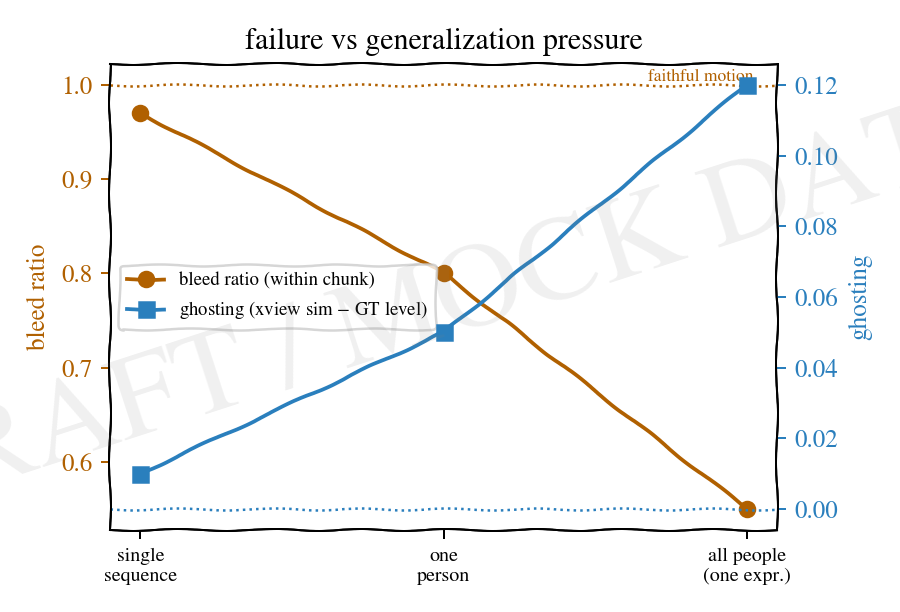
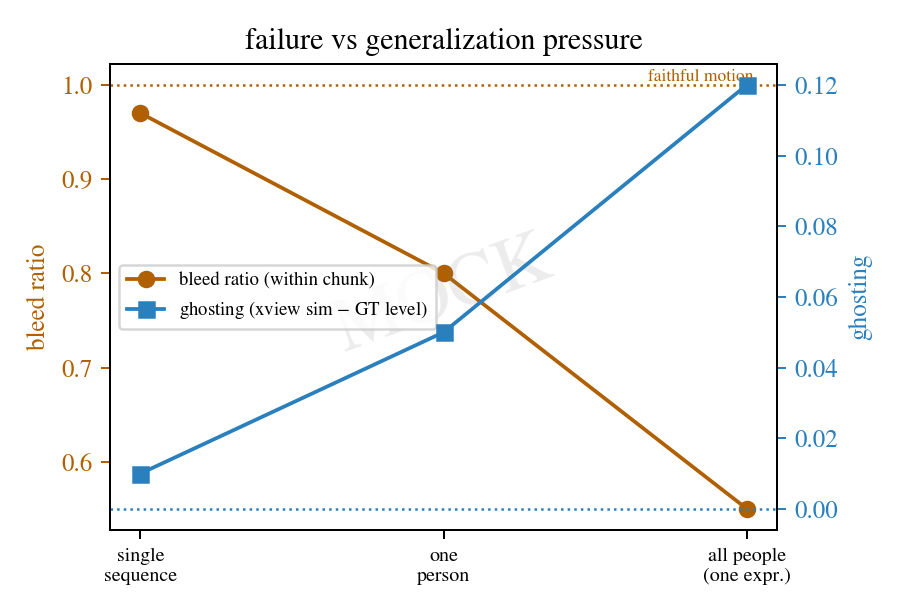
figures: drop sketch style and DRAFT watermark, redesign fusion panel with per-variant pipelines

diff --git a/paper/figures/make_mock_figures.py b/paper/figures/make_mock_figures.py
@@ -1,7 +1,7 @@
 """
 Mock versions of the paper figures, for layout discussions only.
 
-Everything with data in it uses made-up numbers (watermarked DRAFT / MOCK).
+Everything with data in it uses made-up numbers (watermarked MOCK).
 The real figures are generated from the rerun results (collect_results.py CSV
 + the eval clip dumps) once the sweep is done.
 
@@ -23,12 +23,10 @@ from matplotlib.patches import FancyArrowPatch, FancyBboxPatch, Polygon
 OUT = os.path.dirname(os.path.abspath(__file__))
 
 # CVPR template uses Times; STIXGeneral is the closest Times-like font that
-# ships with matplotlib. The sketch param gives everything a hand-drawn wobble
-# so nobody mistakes these for final figures.
+# ships with matplotlib.
 matplotlib.rcParams.update({
     "font.family": "STIXGeneral",
     "mathtext.fontset": "stix",
-    "path.sketch": (1, 100, 2),
 })
 
 # color code used in all schematics
@@ -44,11 +42,6 @@ def load_view(name):
     if os.path.exists(path):
         return plt.imread(path)
     return np.full((64, 64, 3), 0.82)  # gray placeholder if assets are missing
-
-
-def watermark(fig, text="DRAFT"):
-    fig.text(0.5, 0.5, text, fontsize=48, color="gray", alpha=0.12,
-             ha="center", va="center", rotation=18, zorder=100)
 
 
 def thumb(ax, img, x, y, s, label=None, fontsize=7.5, alpha=1.0):
@@ -114,7 +107,6 @@ def fig_broad_overview():
             ha="center", va="top", fontsize=8)
     arrow(ax, 7.55, 1.5, 8.1, 1.5)
 
-    watermark(fig)
     fig.tight_layout()
     fig.savefig(os.path.join(OUT, "mock_broad_overview.png"), dpi=180)
     plt.close(fig)
@@ -181,42 +173,69 @@ def fig_overview():
         box(ax, 1.7 + i * 2.1, 3.45, 0.25, 0.22, c, "")
         ax.text(2.02 + i * 2.1, 3.56, t, va="center", fontsize=7.5)
 
-    watermark(fig)
     fig.tight_layout()
     fig.savefig(os.path.join(OUT, "mock_overview.png"), dpi=180)
     plt.close(fig)
 
 
 # ---------------------------------------------------------------- fusion mechanisms
-def fig_fusion():
-    """The four fusion variants of the ablation, one mini-panel each."""
-    fig, axes = plt.subplots(1, 4, figsize=(11, 2.6))
-    titles = [
-        "(a) cross-view attention\n+ tree merge",
-        "(b) joint self-attention\n+ concat/ResBlocks",
-        "(c) channel-concat\nConv3d",
-        "(d) factorized (2+1+1)D\nconvolution",
-    ]
-    inner = [
-        "MHA over\n$V \\times N$ tokens",
-        "self-attn over\nall view tokens",
-        "1x1x1 Conv3d\n+ 2 ResBlocks",
-        "2D + temporal\n+ view conv",
-    ]
-    for ax, title, mech in zip(axes, titles, inner):
-        ax.set_xlim(0, 3)
-        ax.set_ylim(0, 3)
-        ax.axis("off")
-        box(ax, 0.15, 1.9, 0.8, 0.6, "white", "$f_1$", fontsize=8)
-        box(ax, 0.15, 0.5, 0.8, 0.6, "white", "$f_2$", fontsize=8)
-        box(ax, 1.15, 1.1, 1.1, 0.8, C_NEW, mech, fontsize=7)
-        arrow(ax, 0.97, 2.2, 1.25, 1.85)
-        arrow(ax, 0.97, 0.8, 1.25, 1.15)
-        box(ax, 2.45, 1.2, 0.5, 0.6, C_LATENT, "$f$", fontsize=8)
-        arrow(ax, 2.27, 1.5, 2.45, 1.5)
-        ax.set_title(title, fontsize=8.5)
+def fusion_chain(ax, stages, title):
+    """One fusion variant as a vertical pipeline: f1, f2 at the top, then the
+    mechanism-specific stages, fused f at the bottom."""
+    ax.set_xlim(0, 3)
+    ax.set_ylim(0, 6.2)
+    ax.axis("off")
+    ax.set_title(title, fontsize=8.5)
 
-    watermark(fig)
+    # the two per-view feature maps
+    box(ax, 0.45, 5.4, 0.85, 0.55, "white", "$f_1$", fontsize=9)
+    box(ax, 1.70, 5.4, 0.85, 0.55, "white", "$f_2$", fontsize=9)
+
+    # stage boxes, evenly spaced between inputs and output
+    n = len(stages)
+    ys = np.linspace(4.4, 1.3, n)
+    h = 0.62
+    arrow(ax, 0.88, 5.38, 1.35, ys[0] + h + 0.02)
+    arrow(ax, 2.12, 5.38, 1.65, ys[0] + h + 0.02)
+    for i, ((label, color), y) in enumerate(zip(stages, ys)):
+        box(ax, 0.45, y, 2.1, h, color, label, fontsize=7)
+        if i > 0:
+            arrow(ax, 1.5, ys[i - 1] - 0.02, 1.5, y + h + 0.02)
+
+    box(ax, 1.15, 0.15, 0.7, 0.55, C_LATENT, "$f$", fontsize=9)
+    arrow(ax, 1.5, ys[-1] - 0.02, 1.5, 0.74)
+
+
+def fig_fusion():
+    """The four fusion variants of the ablation. Each panel shows the actual
+    stage sequence, so the differences are visible at a glance."""
+    fig, axes = plt.subplots(1, 4, figsize=(11, 3.4))
+
+    fusion_chain(axes[0], [
+        ("cross-view MHA over\nall $V{\\cdot}N$ tokens per frame", C_NEW),
+        ("zero-init output proj\n(+ residual)", C_NEW),
+        ("tree merge: pairwise\nconcat $\\to$ 2 ResBlocks", C_NEW),
+    ], "(a) cross-view attention\n+ tree merge (default)")
+
+    fusion_chain(axes[1], [
+        ("concat token sequences\n$[f_1; f_2] \\in V{\\cdot}N$ tokens", "white"),
+        ("joint self-attention\nover all view tokens", C_NEW),
+        ("concat on channels\n$\\to$ 2 ResBlocks", C_NEW),
+    ], "(b) joint\nself-attention")
+
+    fusion_chain(axes[2], [
+        ("stack on channel axis\n$[2C, T, H', W']$", "white"),
+        ("1x1x1 Conv3d $2C{\\to}C$\n+ GN + SiLU", C_NEW),
+        ("2 symmetric (non-causal)\n3D ResBlocks", C_NEW),
+    ], "(c) channel-concat\nConv3d")
+
+    fusion_chain(axes[3], [
+        ("stack on view axis\n$[C, V, T, H', W']$", "white"),
+        ("spatial 3x3 Conv2d", C_NEW),
+        ("temporal 3x3x3 Conv3d", C_NEW),
+        ("view conv, kernel $(V,3,3)$\ncompresses $V \\to 1$", C_NEW),
+    ], "(d) factorized (2+1+1)D\nconvolution")
+
     fig.tight_layout()
     fig.savefig(os.path.join(OUT, "mock_fusion.png"), dpi=180)
     plt.close(fig)
@@ -266,7 +285,6 @@ def fig_chunking():
             ha="center", fontsize=7.5, color="red")
     ax.text(0.4, -0.15, "frame 0:\ncold start", ha="center", fontsize=7.5, color="gray")
 
-    watermark(fig)
     fig.tight_layout()
     fig.savefig(os.path.join(OUT, "mock_chunking.png"), dpi=180)
     plt.close(fig)
@@ -308,7 +326,9 @@ def fig_rate_quality():
     ax.legend(fontsize=7.5, loc="lower left")
     ax.grid(alpha=0.25)
 
-    watermark(fig, "DRAFT / MOCK DATA")
+    ax.text(0.5, 0.5, "MOCK DATA", transform=ax.transAxes, fontsize=34, color="gray",
+            alpha=0.18, ha="center", va="center", rotation=20)
+
     fig.tight_layout()
     fig.savefig(os.path.join(OUT, "mock_rate_quality.png"), dpi=180)
     plt.close(fig)
@@ -350,7 +370,10 @@ def fig_perframe():
     ax2.legend(fontsize=7.5)
     ax2.grid(alpha=0.25)
 
-    watermark(fig, "DRAFT / MOCK DATA")
+    for ax in (ax1, ax2):
+        ax.text(0.5, 0.5, "MOCK", transform=ax.transAxes, fontsize=30, color="gray",
+                alpha=0.15, ha="center", va="center", rotation=20)
+
     fig.tight_layout()
     fig.savefig(os.path.join(OUT, "mock_perframe.png"), dpi=180)
     plt.close(fig)
@@ -384,7 +407,9 @@ def fig_datascale():
     lines = ax.get_lines()[:1] + ax2.get_lines()[:1]
     ax.legend(lines, [l.get_label() for l in lines], fontsize=7.5, loc="center left")
 
-    watermark(fig, "DRAFT / MOCK DATA")
+    ax.text(0.5, 0.5, "MOCK", transform=ax.transAxes, fontsize=30, color="gray",
+            alpha=0.15, ha="center", va="center", rotation=20)
+
     fig.tight_layout()
     fig.savefig(os.path.join(OUT, "mock_datascale.png"), dpi=180)
     plt.close(fig)
